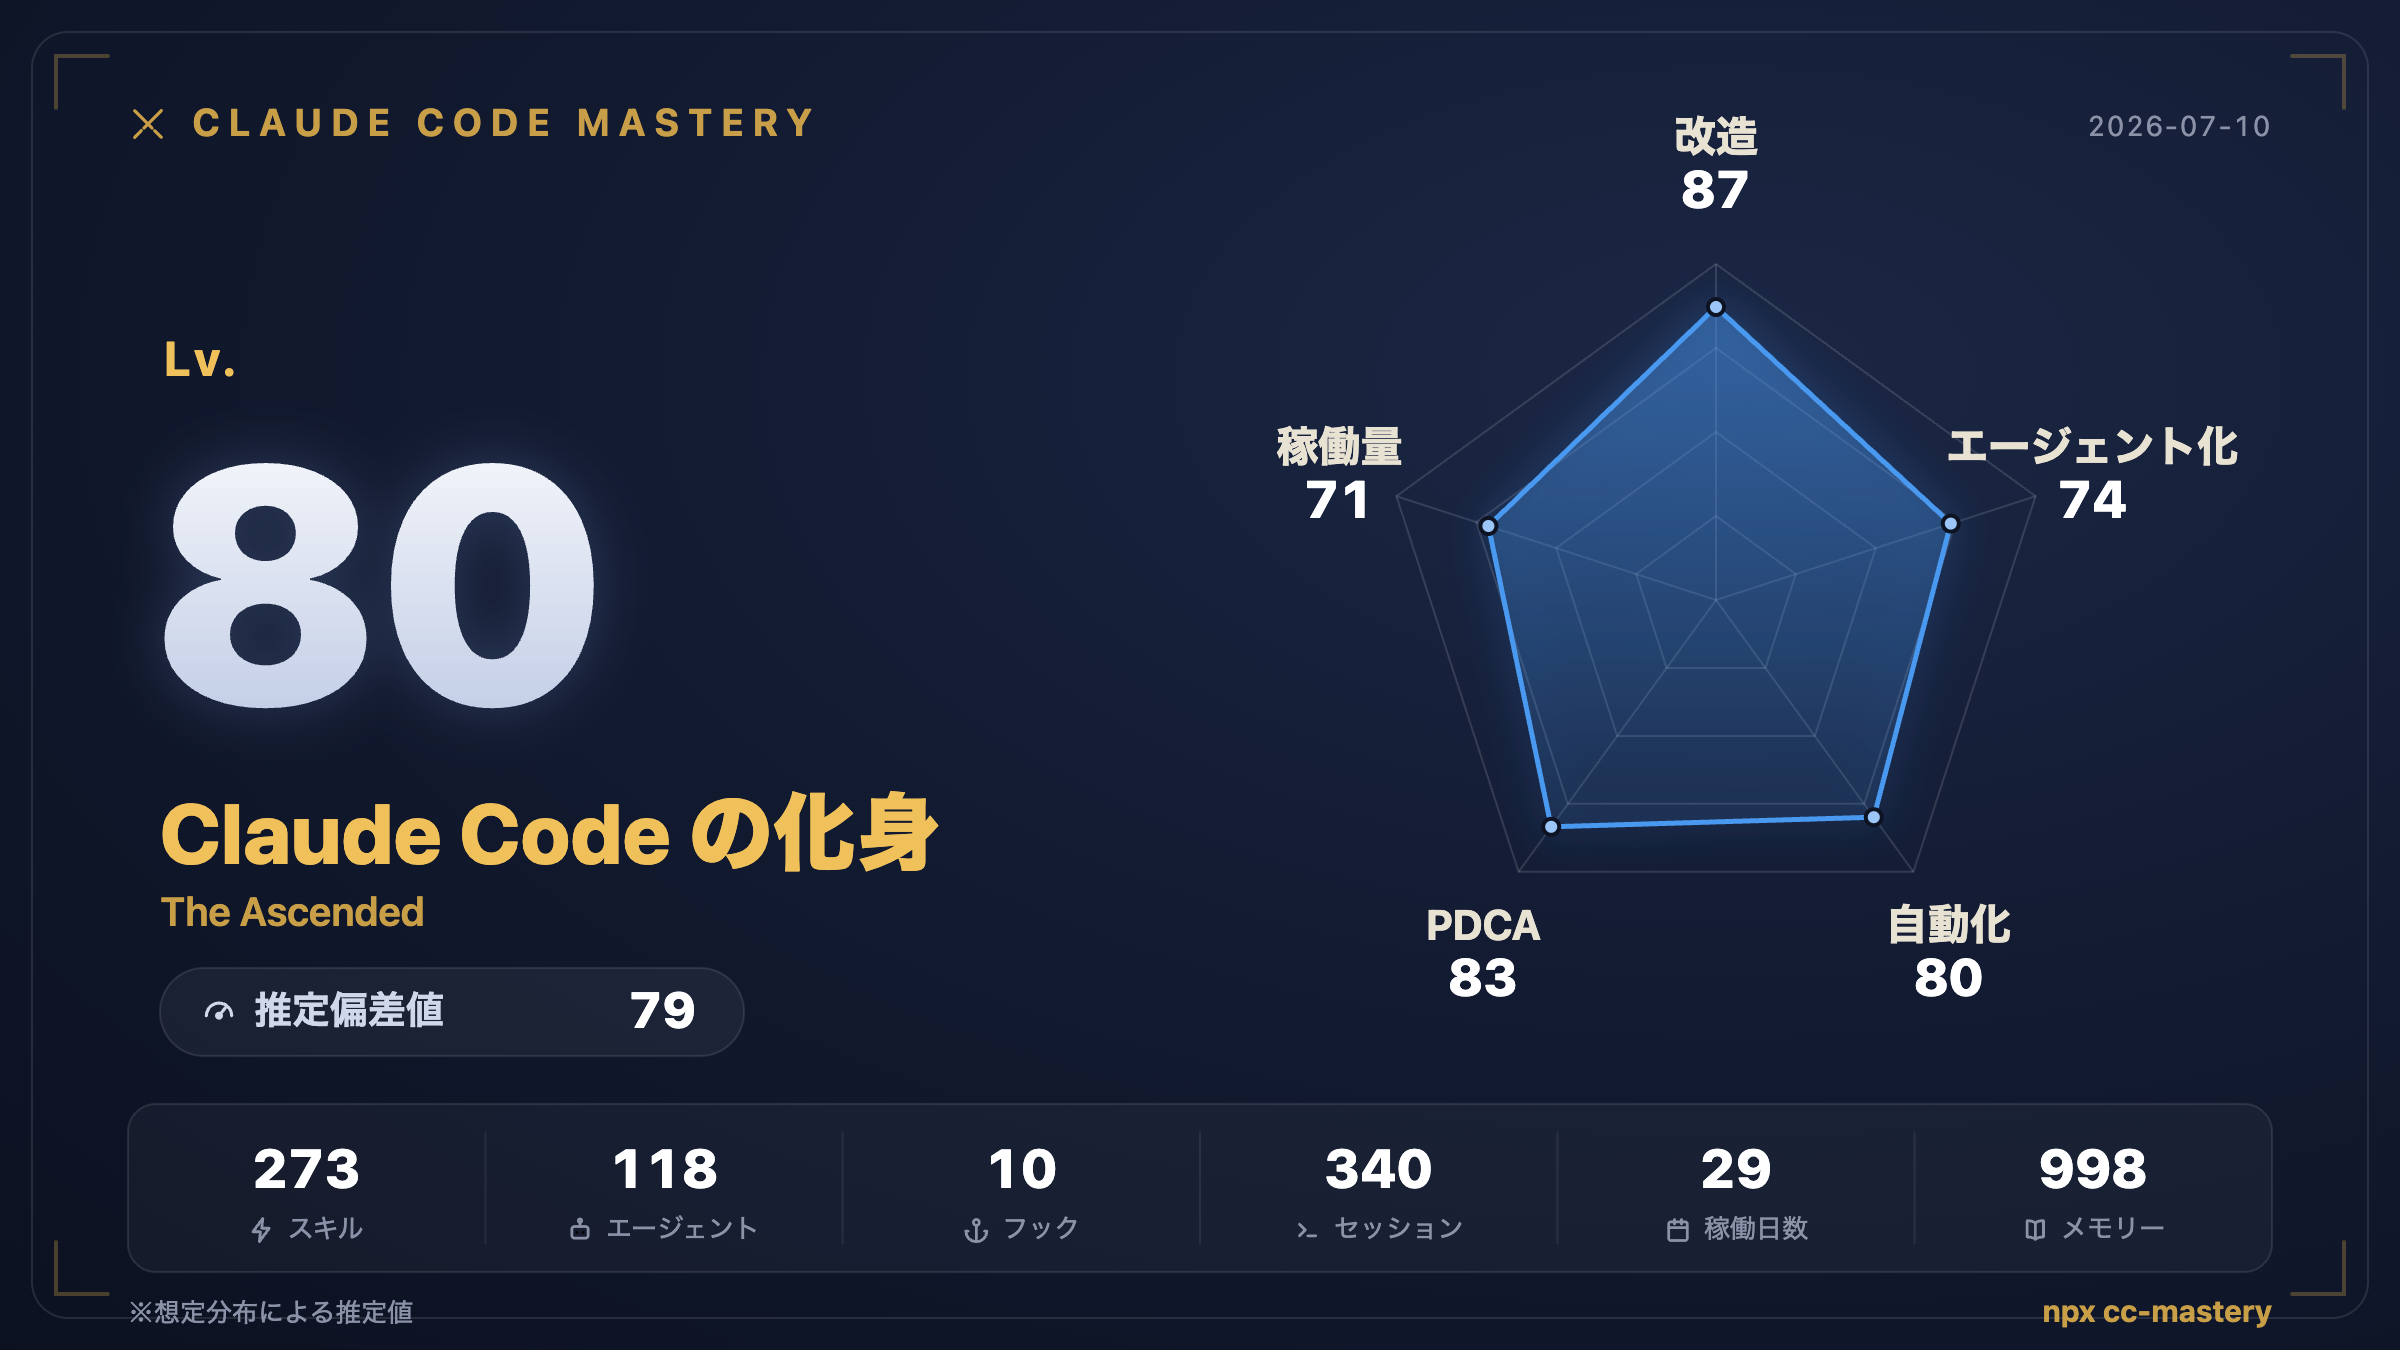
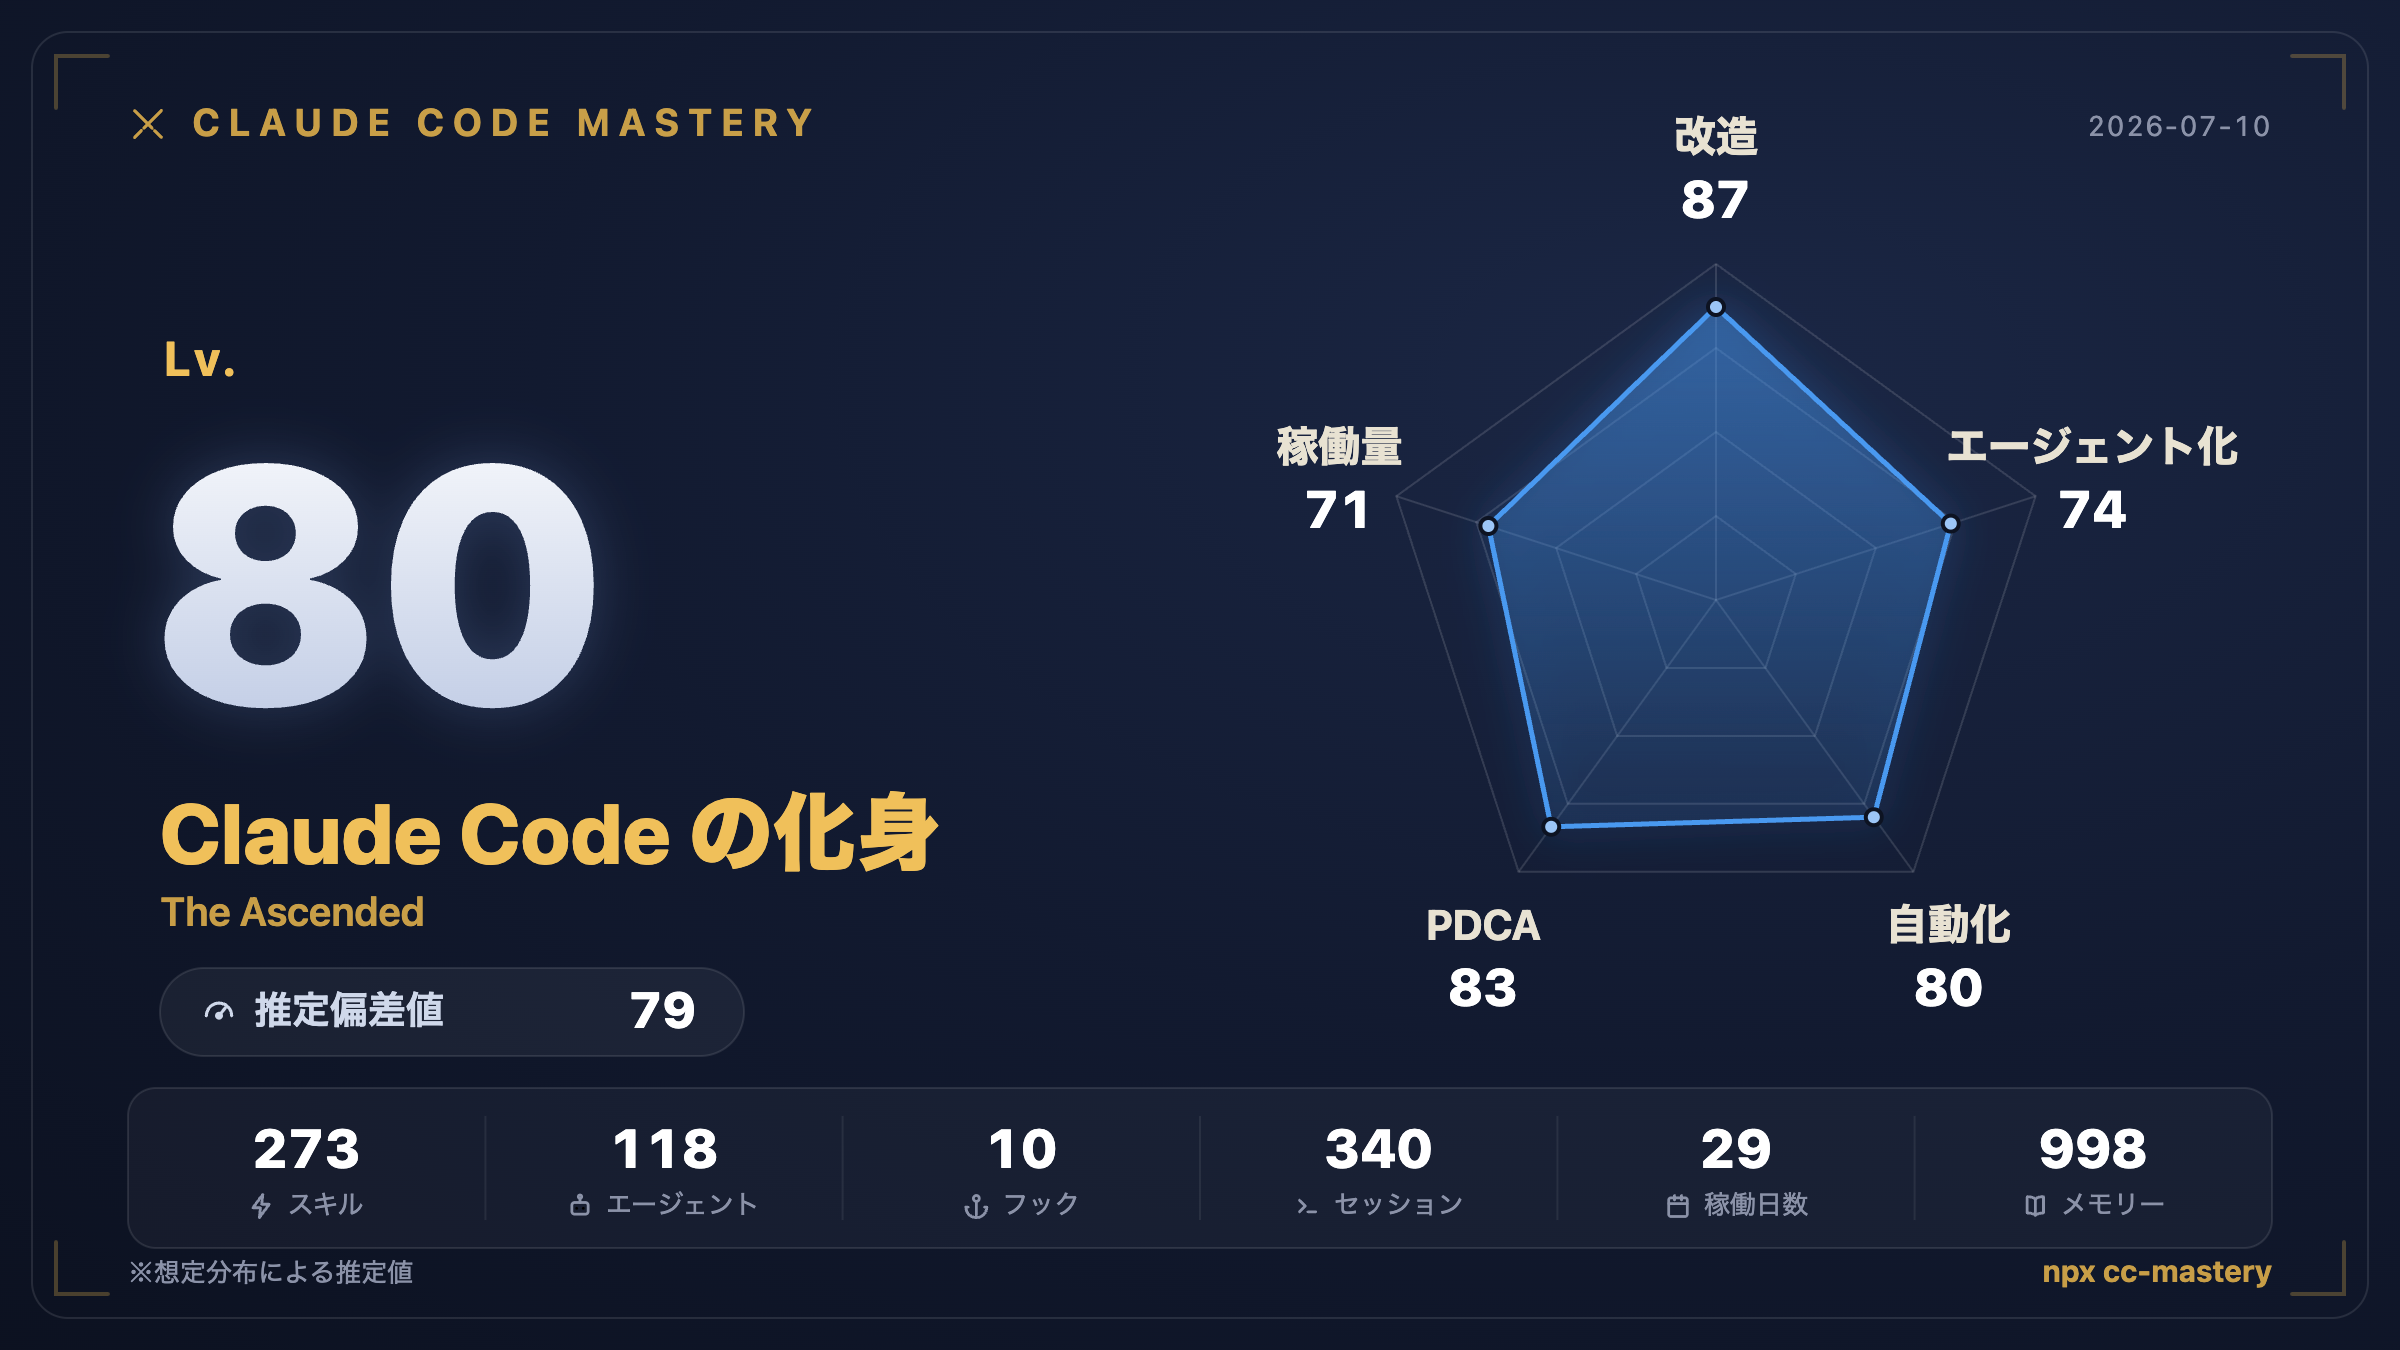
polish: final review pass — card safe margins, label spacing, heatmap contrast
Codex design review round 3: 92/100, ship-ready. Bottom footer ≥32px
from card edge (X preview crops), radar label/score gap +5px, heatmap
cells 17px with brighter empty state.

diff --git a/src/render/card-svg.js b/src/render/card-svg.js
@@ -79,7 +79,7 @@ function radar(axes, lang, cx, cy, R) {
     const yL = isTop ? y - 26 : isBottom ? y + 10 : y - 8;
     const label = lang === 'ja' ? axes[i].ja : axes[i].en;
     out += `<text x="${x.toFixed(1)}" y="${yL.toFixed(1)}" text-anchor="middle" font-size="21" font-weight="700" fill="${C.label}">${esc(label)}</text>`;
-    out += `<text x="${x.toFixed(1)}" y="${(yL + 28).toFixed(1)}" text-anchor="middle" font-size="26" font-weight="800" fill="${C.ink}" style="font-variant-numeric:tabular-nums">${Math.round(axes[i].score)}</text>`;
+    out += `<text x="${x.toFixed(1)}" y="${(yL + 33).toFixed(1)}" text-anchor="middle" font-size="26" font-weight="800" fill="${C.ink}" style="font-variant-numeric:tabular-nums">${Math.round(axes[i].score)}</text>`;
   }
   return out;
 }
@@ -93,13 +93,13 @@ function statBand(stats, x, y, w, h) {
     if (i > 0) {
       out += `<line x1="${(x + step * i).toFixed(1)}" y1="${y + 14}" x2="${(x + step * i).toFixed(1)}" y2="${y + h - 14}" stroke="rgba(255,255,255,0.07)" stroke-width="1"/>`;
     }
-    out += `<text x="${cxCell}" y="${y + 42}" text-anchor="middle" font-size="27" font-weight="800" fill="${C.ink}" style="font-variant-numeric:tabular-nums">${esc(fmt(s.value))}</text>`;
+    out += `<text x="${cxCell}" y="${y + 40}" text-anchor="middle" font-size="27" font-weight="800" fill="${C.ink}" style="font-variant-numeric:tabular-nums">${esc(fmt(s.value))}</text>`;
     // icon + label centered as a pair: icon sits left of the label text
     const labelLen = String(s.label).length;
     const approxW = labelLen * 13; // CJK-ish estimate, good enough to center
     const pairLeft = cxCell - (approxW + 20) / 2;
-    out += svgIcon(STAT_ICONS[i] ?? 'zap', pairLeft, y + 56, 14, C.muted, 2.4);
-    out += `<text x="${pairLeft + 20}" y="${y + 67}" font-size="13" fill="${C.muted}">${esc(s.label)}</text>`;
+    out += svgIcon(STAT_ICONS[i] ?? 'zap', pairLeft, y + 52, 14, C.muted, 2.4);
+    out += `<text x="${pairLeft + 20}" y="${y + 63}" font-size="13" fill="${C.muted}">${esc(s.label)}</text>`;
   });
   return out;
 }
@@ -182,11 +182,11 @@ export function renderCardSvg(data) {
     ${radar(score.axes, lang, cx, cy, R)}
 
     <!-- stat band -->
-    ${statBand(stats, 64, 552, W - 128, 84)}
+    ${statBand(stats, 64, 544, W - 128, 80)}
 
-    <!-- footer -->
-    <text x="64" y="661" font-size="13" fill="${C.muted}">${esc(t('estimated'))}</text>
-    <text x="${W - 64}" y="661" font-size="15" font-weight="700" text-anchor="end" fill="${C.goldDim}">npx cc-mastery</text>
+    <!-- footer (≥32px clear of the card edge for X-preview crops) -->
+    <text x="64" y="641" font-size="13" fill="${C.muted}">${esc(t('estimated'))}</text>
+    <text x="${W - 64}" y="641" font-size="15" font-weight="700" text-anchor="end" fill="${C.goldDim}">npx cc-mastery</text>
   </g>
 </svg>`;
 }

diff --git a/src/render/html.js b/src/render/html.js
@@ -18,7 +18,7 @@ const CSS = `
   --series: #3987e5;
   --series-bright: #4da3ff;
   --gold: #e8b64c;
-  --cell-empty: rgba(255,255,255,0.055);
+  --cell-empty: rgba(255,255,255,0.07);
   --sp-2: 8px; --sp-3: 12px; --sp-4: 16px; --sp-6: 24px; --sp-8: 32px; --sp-12: 48px;
 }
 * { box-sizing: border-box; margin: 0; padding: 0; }
@@ -103,15 +103,15 @@ td.strong { color: var(--ink); font-weight: 700; white-space: nowrap; }
 /* ---- heatmap ---- */
 .hm-wrap { display: flex; gap: 8px; justify-content: center; }
 .hm-dow {
-  display: flex; flex-direction: column; gap: 20px;
-  padding-top: 39px; font-size: 11px; line-height: 16px; color: var(--muted); flex: none;
+  display: flex; flex-direction: column; gap: 24px;
+  padding-top: 41px; font-size: 11px; line-height: 16px; color: var(--muted); flex: none;
 }
 .hm-scroll { overflow-x: auto; padding-bottom: 4px; }
 .hm-months { display: grid; gap: 3px; font-size: 11px; color: var(--muted); height: 18px; margin-bottom: 3px; }
 .hm-months span { white-space: nowrap; }
 .hm-grid { display: flex; gap: 3px; }
 .hm-col { display: flex; flex-direction: column; gap: 3px; }
-.hm-cell { width: 15px; height: 15px; border-radius: 3px; background: var(--cell-empty); }
+.hm-cell { width: 17px; height: 17px; border-radius: 3px; background: var(--cell-empty); }
 .hm-legend { display: flex; align-items: center; gap: 4px; justify-content: flex-end; margin-top: 12px; font-size: 11px; color: var(--muted); }
 .hm-legend i { width: 11px; height: 11px; border-radius: 3px; display: inline-block; }
 

diff --git a/src/render/dashboard.js b/src/render/dashboard.js
@@ -74,7 +74,7 @@ function heatmap(dayCounts, lang, t) {
       <div class="hm-wrap">
         <div class="hm-dow"><span>${dow[0]}</span><span>${dow[1]}</span><span>${dow[2]}</span></div>
         <div class="hm-scroll">
-          <div class="hm-months" style="grid-template-columns: repeat(${colIndex}, 18px)">${monthLabels.join('')}</div>
+          <div class="hm-months" style="grid-template-columns: repeat(${colIndex}, 20px)">${monthLabels.join('')}</div>
           <div class="hm-grid">${cols.join('')}</div>
         </div>
       </div>